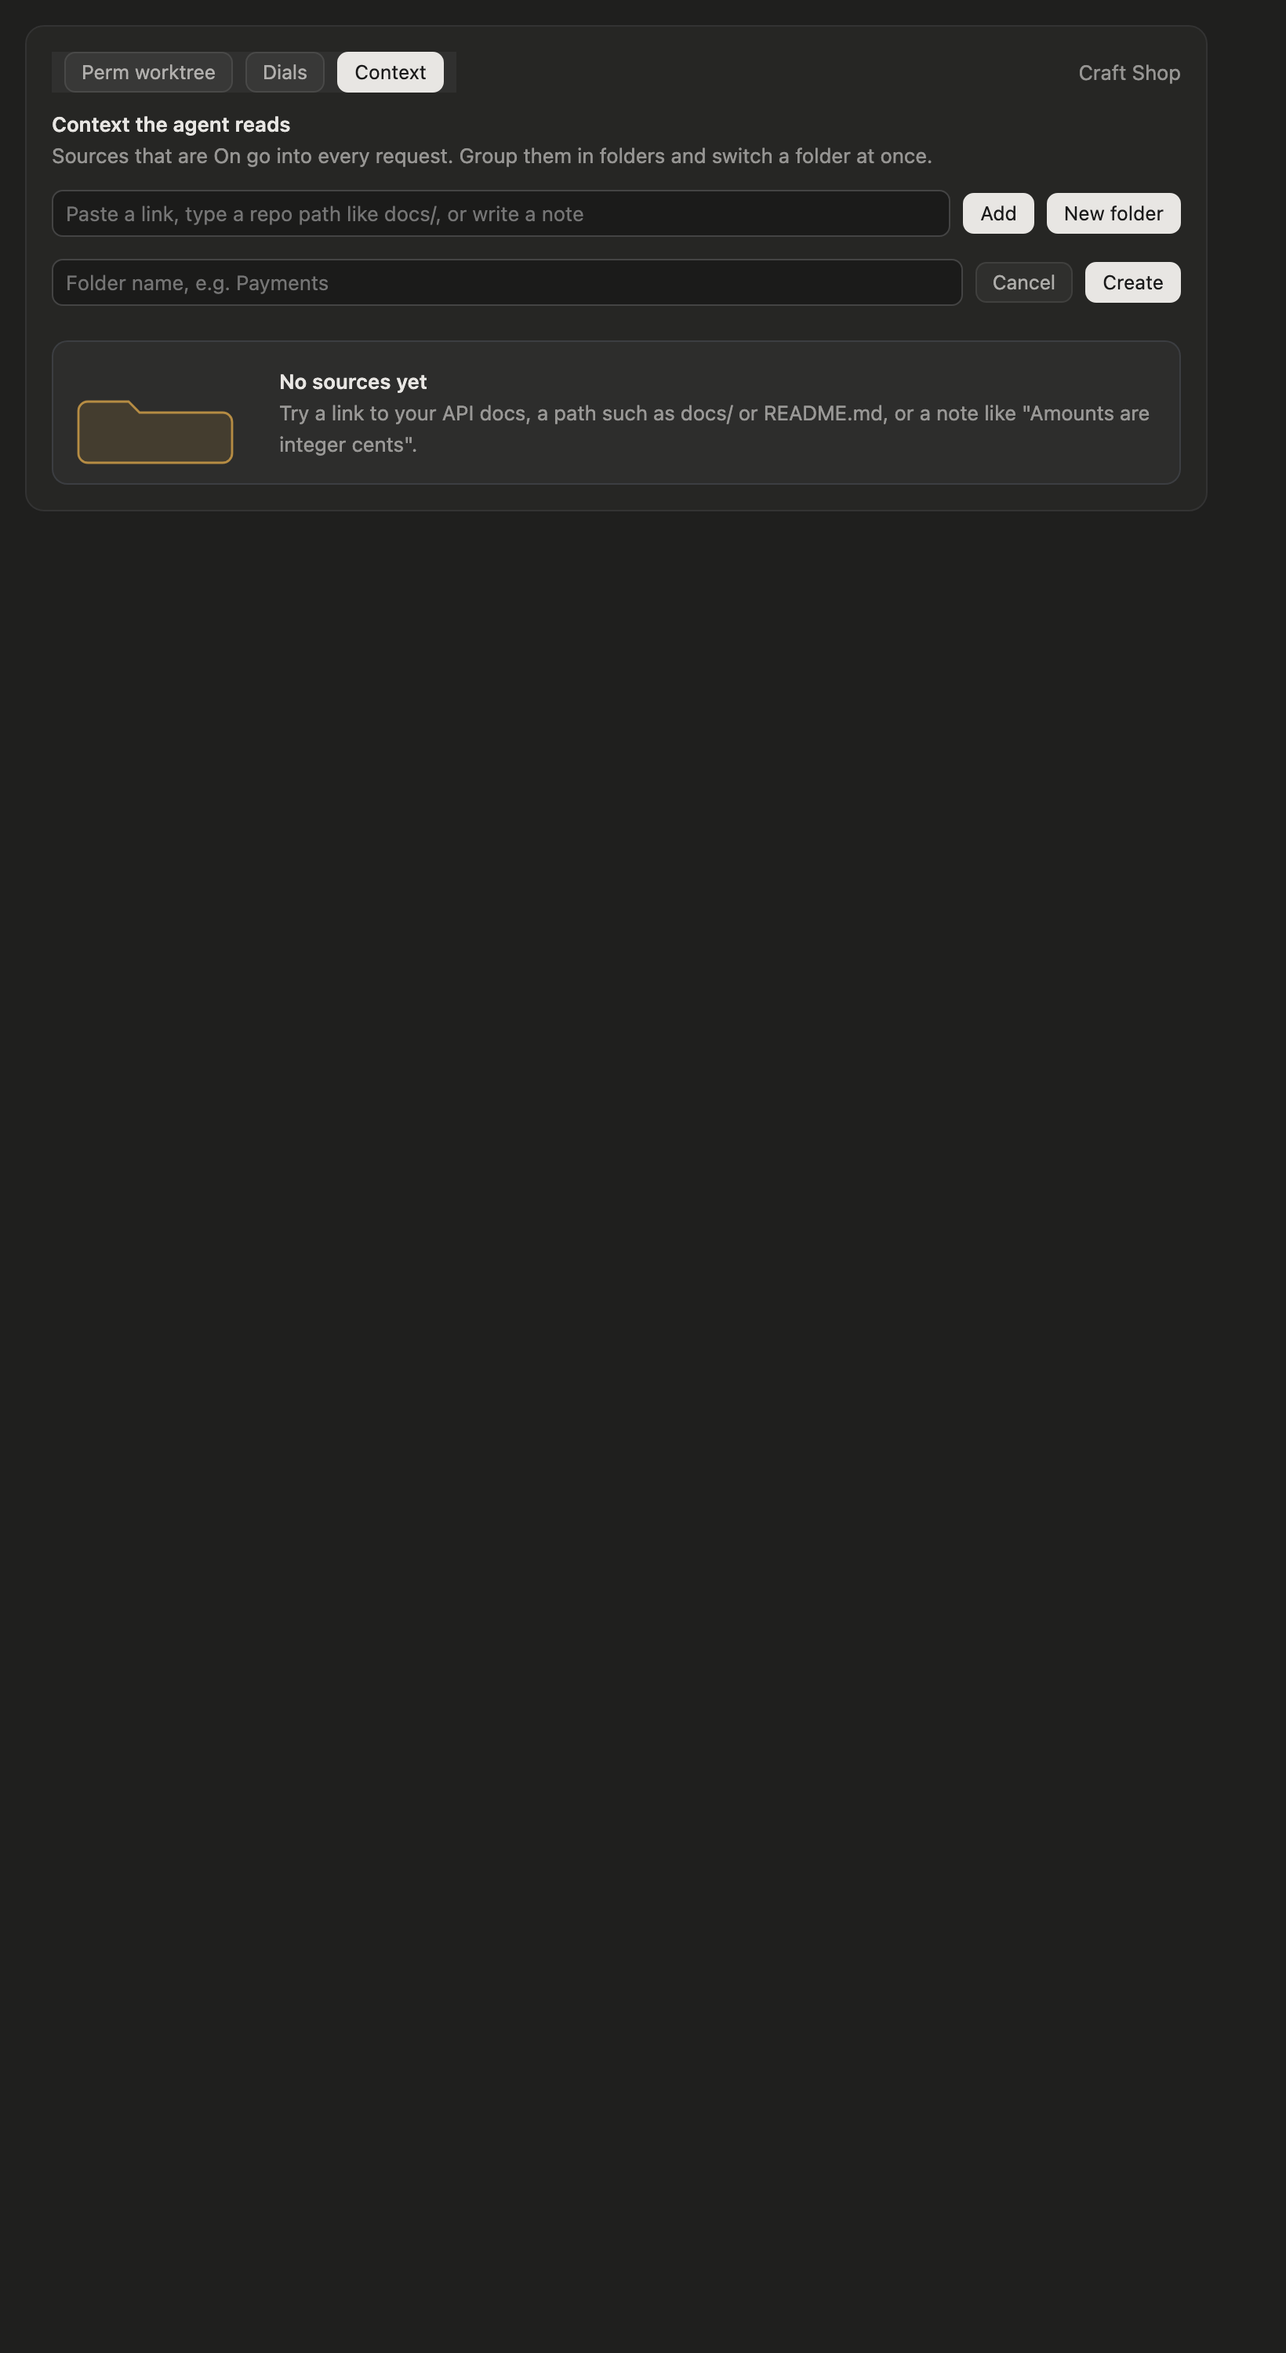
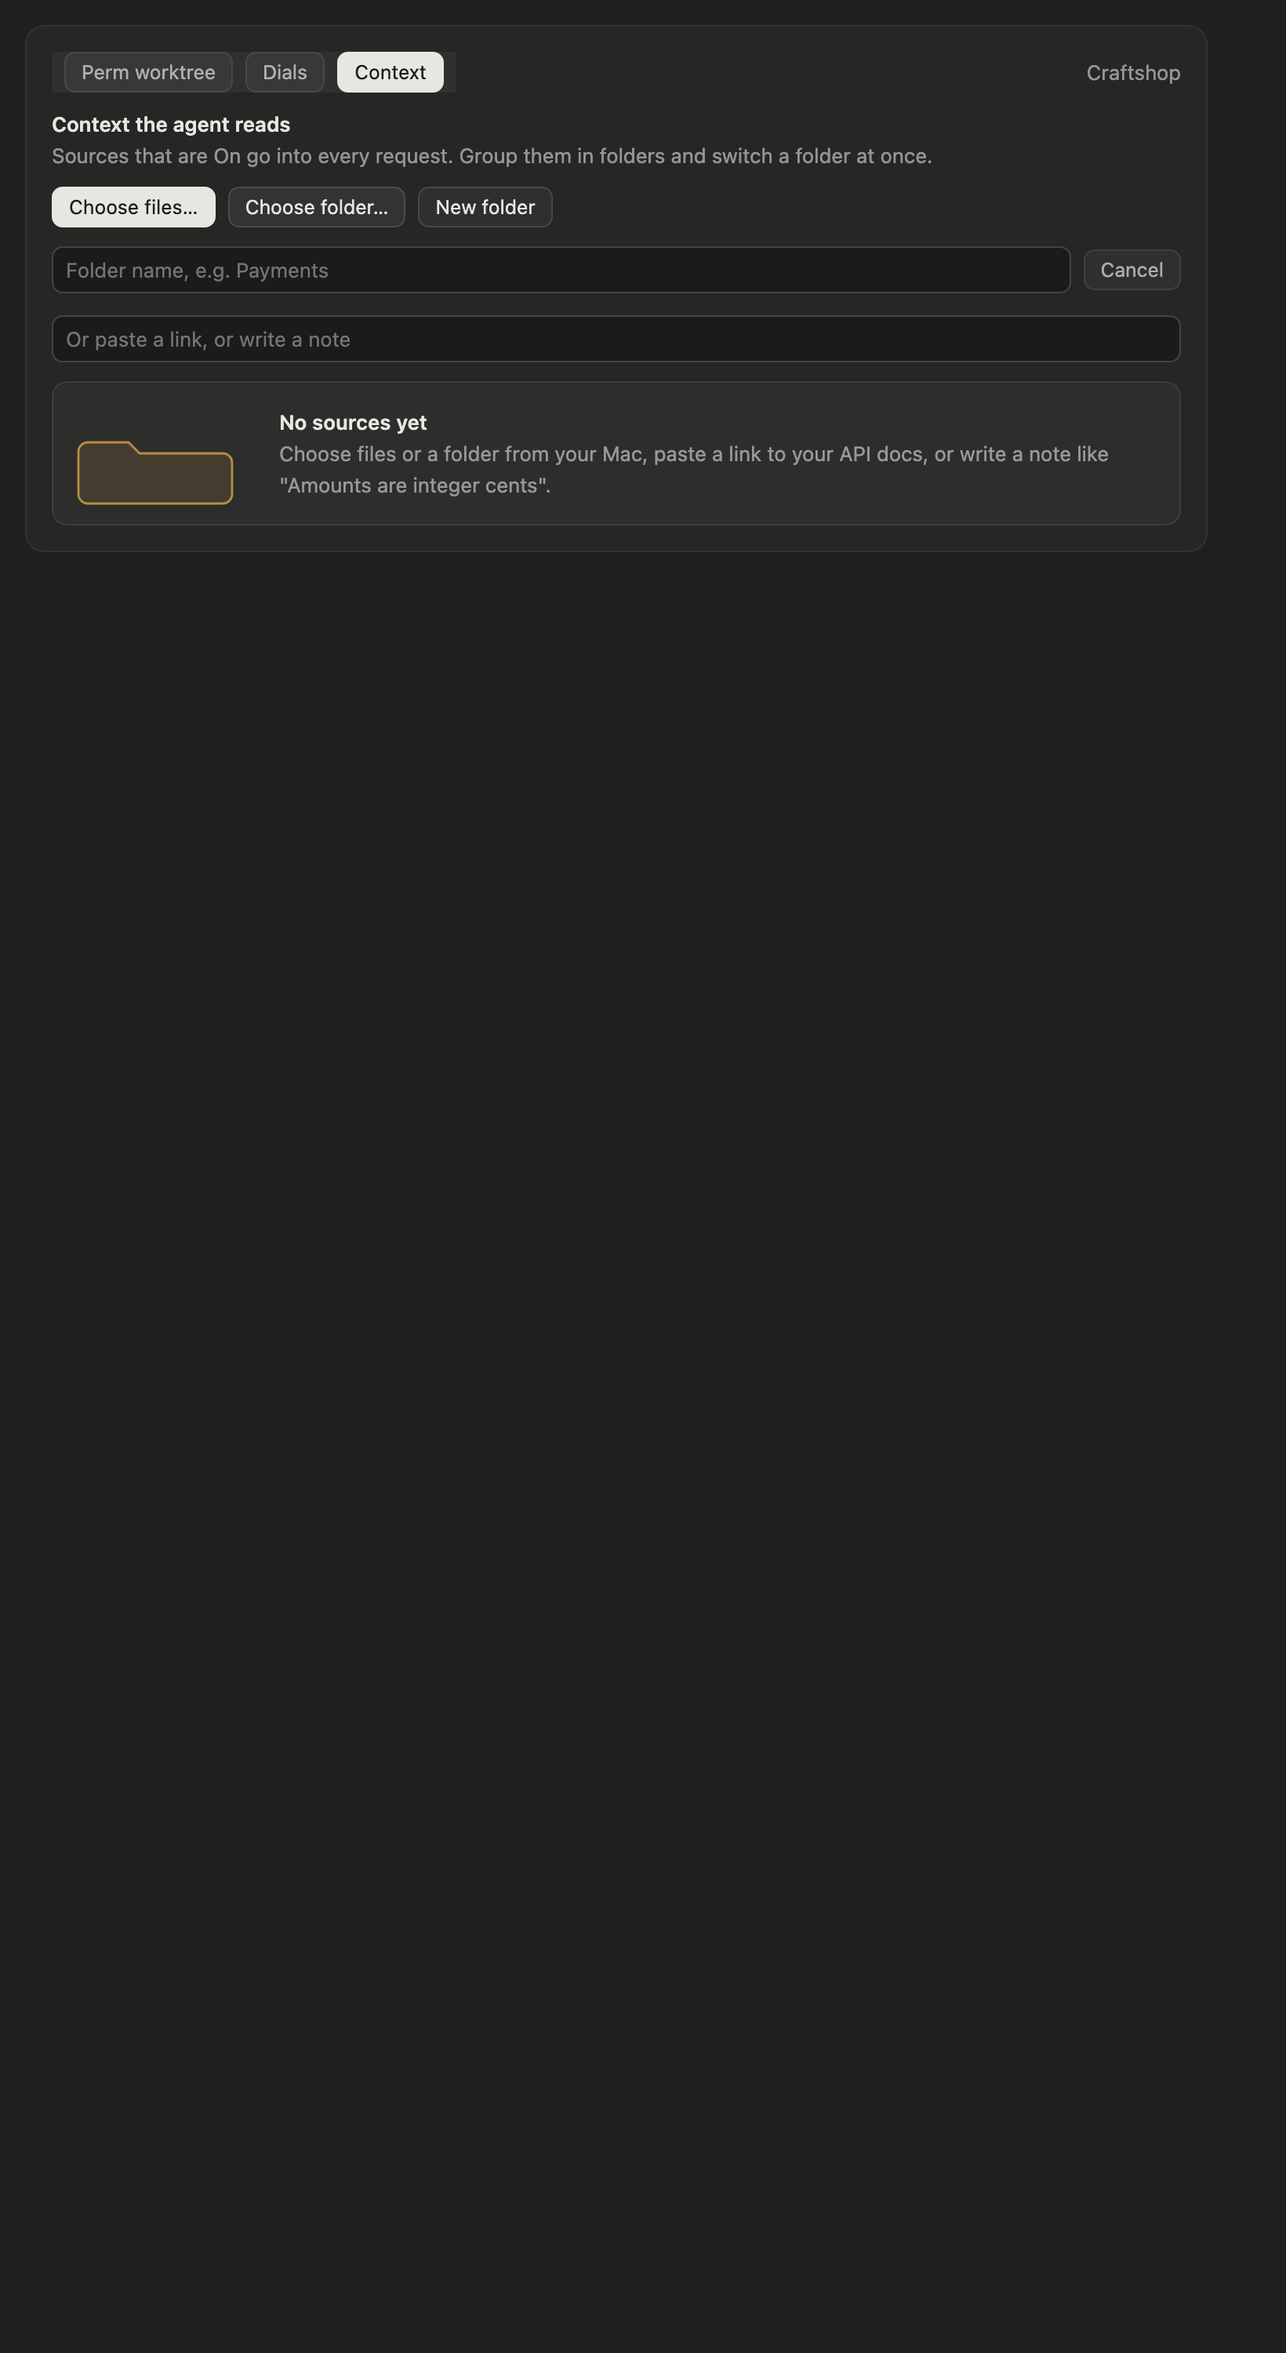
Context: choose files and folders with the macOS dialog
Choose files… and Choose folder… open the native file dialog through
osascript, so sources come from a pick rather than a typed path. Files
may sit outside the repository: those keep their absolute path, the
rest a path relative to the checkout. A picked folder imports its text
files as a Craftshop folder. The field below now takes links and
notes, and the duplicate Add button is gone, since the desktop draws
the field's own.

diff --git a/hooks/context.tsx b/hooks/context.tsx
@@ -193,13 +193,14 @@ async function readText($: $, path: string): Promise<string> {
   return typeof text === 'string' ? text.slice(0, CHAR_CAP) : ''
 }
 
-// The text files under a directory, breadth first, at most IMPORT_CAP.
-async function textFiles($: $, top: string, relative: string): Promise<string[]> {
+// The text files under a directory, breadth first, at most IMPORT_CAP, as
+// absolute paths.
+async function textFiles($: $, directory: string): Promise<string[]> {
   const found: string[] = []
-  const queue = [relative]
+  const queue = [directory]
   while (queue.length > 0 && found.length < IMPORT_CAP) {
     const dir = queue.shift()!
-    const entries = await $.fs.list(`${top}/${dir}`)
+    const entries = await $.fs.list(dir)
     for (const entry of [...entries].sort((a, b) => a.name.localeCompare(b.name))) {
       if (entry.name.startsWith('.')) continue
       const path = `${dir}/${entry.name}`
@@ -214,7 +215,7 @@ async function textFiles($: $, top: string, relative: string): Promise<string[]>
 // directory becomes a folder of its text files), anything else is a note.
 async function addFromInput($: $, raw: string): Promise<void> {
   const text = raw.trim()
-  if (text === '') return say($, 'Paste a link, type a path in the repository, or write a note.')
+  if (text === '') return say($, 'Paste a link or write a note, or choose files.')
   if (/^https?:\/\/\S+$/.test(text)) {
     await say($, `Fetching ${text}`)
     const page = await fetchLink($, text)
@@ -227,7 +228,7 @@ async function addFromInput($: $, raw: string): Promise<void> {
     const path = text.replace(/^\.\//, '').replace(/\/+$/, '')
     const top = await $.session.root()
     const stat = await $.fs.stat(`${top}/${path}`).catch(() => undefined)
-    if (stat?.kind === 'dir') return importDirectory($, top, path)
+    if (stat?.kind === 'dir') return importDirectory($, `${top}/${path}`, path)
     if (stat?.kind === 'file') {
       const body = await readText($, `${top}/${path}`).catch(() => null)
       if (body === null) return say($, `Could not read ${path}.`)
@@ -241,13 +242,63 @@ async function addFromInput($: $, raw: string): Promise<void> {
   return clearInput($, 'Added a note. Open it to rename it or add more.')
 }
 
+// The macOS file dialog, run through osascript on the machine Claude Code
+// runs on: the picked paths, [] when the person cancels, null when there is
+// no dialog to show (not macOS, or osascript failed).
+async function pickPaths($: $, kind: 'file' | 'folder'): Promise<string[] | null> {
+  const top = (await $.session.root()).replace(/"/g, '')
+  const chooser =
+    kind === 'file'
+      ? `choose file with prompt "Add files to Craftshop context" default location (POSIX file "${top}") with multiple selections allowed`
+      : `choose folder with prompt "Add folders to Craftshop context" default location (POSIX file "${top}") with multiple selections allowed`
+  const ran = await $.process
+    .run(['osascript', '-e', 'activate', '-e', `set picked to ${chooser}`, '-e', 'set out to ""', '-e', 'repeat with one in picked', '-e', 'set out to out & POSIX path of one & linefeed', '-e', 'end repeat', '-e', 'return out'], { timeoutMs: 600_000 })
+    .catch(() => null)
+  if (ran === null) return null
+  if (ran.exitCode !== 0) return /-128/.test(ran.stderr) ? [] : null
+  return ran.stdout
+    .split('\n')
+    .map(line => line.trim().replace(/\/$/, ''))
+    .filter(line => line !== '')
+}
+
+// A path as a source keeps it: relative to the checkout when inside it.
+function relativePath(top: string, path: string): string {
+  return path.startsWith(`${top}/`) ? path.slice(top.length + 1) : path
+}
+
+async function choose($: $, kind: 'file' | 'folder'): Promise<void> {
+  await say($, kind === 'file' ? 'Choosing files…' : 'Choosing a folder…')
+  const picked = await pickPaths($, kind)
+  if (picked === null) return say($, 'Could not open the file dialog here. Type a path in the field instead.')
+  if (picked.length === 0) return say($, '')
+  const top = await $.session.root()
+  const added: string[] = []
+  for (const path of picked) {
+    if (kind === 'folder') {
+      await importDirectory($, path, relativePath(top, path))
+      added.push(relativePath(top, path))
+      continue
+    }
+    const body = await readText($, path).catch(() => null)
+    if (body === null || body.includes('\u0000')) {
+      await say($, `Skipped ${path.split('/').pop()}: only text files can be sources.`)
+      continue
+    }
+    await addSource($, { kind: 'file', title: path.split('/').pop() ?? path, text: body, url: null, path: relativePath(top, path) })
+    added.push(path.split('/').pop() ?? path)
+  }
+  if (kind === 'file' && added.length > 0) await say($, `Added ${added.join(', ')}`)
+}
+
 async function clearInput($: $, status: string): Promise<void> {
   await update($, contextDraft, now => ({ ...now, input: '' }))
   await say($, status)
 }
 
-async function importDirectory($: $, top: string, path: string): Promise<void> {
-  const files = await textFiles($, top, path)
+async function importDirectory($: $, directory: string, path: string): Promise<void> {
+  const top = await $.session.root()
+  const files = await textFiles($, directory)
   if (files.length === 0) return say($, `No text files under ${path}.`)
   const folder: Folder = { id: await newId($), name: path.split('/').pop() || path }
   const added: Source[] = []
@@ -256,9 +307,9 @@ async function importDirectory($: $, top: string, path: string): Promise<void> {
       id: await newId($),
       kind: 'file',
       title: file.split('/').pop() ?? file,
-      text: await readText($, `${top}/${file}`),
+      text: await readText($, file),
       url: null,
-      path: file,
+      path: relativePath(top, file),
       mode: 'guidance',
       folderId: folder.id,
     })
@@ -289,7 +340,8 @@ async function refresh($: $, source: Source): Promise<void> {
     if (typeof page === 'string') return say($, page)
     text = page.text
   } else if (source.kind === 'file' && source.path !== null) {
-    text = await readText($, `${await $.session.root()}/${source.path}`).catch(() => null)
+    const file = source.path.startsWith('/') ? source.path : `${await $.session.root()}/${source.path}`
+    text = await readText($, file).catch(() => null)
   }
   if (text === null) return say($, `Could not refresh ${source.title}.`)
   await saveSources($, list => list.map(one => (one.id === source.id ? { ...one, text: text! } : one)))
@@ -531,40 +583,40 @@ export function registerContext(on: On): void {
     }
 
     const targetOptions = [{ value: '', label: 'No folder' }, ...groups.map(one => ({ value: one.id, label: one.name }))]
+    const isWarning = /^(Could|That link|No text|Skipped)/.test(status)
     const adder = (
       <Box flexDirection="column" gap={1}>
-        <Box gap={1} alignItems="center">
-          {Input !== undefined && (
-            <Box flexGrow={1}>
-              <Input
-                key="add-input"
-                placeholder="Paste a link, type a repo path like docs/, or write a note"
-                value={draft.input}
-                submitLabel="add"
-                autoFocus={list.length === 0 ? true : undefined}
-                onInput={value => void update($, contextDraft, now => ({ ...now, input: value }))}
-                onSubmit={value => void addFromInput($, value)}
-              />
-            </Box>
-          )}
+        <Box justifyContent="space-between" alignItems="center" gap={1} flexWrap="wrap">
+          <Box gap={1} alignItems="center" flexWrap="wrap">
+            <Button key="pick-files" label="Choose files…" variant="primary" onPress={() => void choose($, 'file')} />
+            <Button key="pick-folder" label="Choose folder…" onPress={() => void choose($, 'folder')} />
+            <Button key="folder-new" label="New folder" variant={view.isNamingFolder ? 'secondary' : undefined} dimColor={!view.isNamingFolder} onPress={go({ isNamingFolder: !view.isNamingFolder })} />
+          </Box>
           {Select !== undefined && groups.length > 0 && (
-            <Select key="add-target" label="to " options={targetOptions} value={view.target ?? ''} onSelect={value => void setView($, { target: value === '' ? null : value })} />
+            <Select key="add-target" label="Into " options={targetOptions} value={view.target ?? ''} onSelect={value => void setView($, { target: value === '' ? null : value })} />
           )}
-          <Button key="add-go" label="Add" variant="primary" onPress={() => void read($, contextDraft).then(now => addFromInput($, now.input))} />
-          <Button key="folder-new" label="New folder" variant={view.isNamingFolder ? 'primary' : undefined} dimColor={!view.isNamingFolder} onPress={go({ isNamingFolder: !view.isNamingFolder })} />
         </Box>
         {view.isNamingFolder && Input !== undefined && (
           <Box gap={1} alignItems="center">
-            <Box flexGrow={1}>
-              <Input key="folder-name" placeholder="Folder name, e.g. Payments" value={draft.name} submitLabel="create" autoFocus onInput={value => void update($, contextDraft, now => ({ ...now, name: value }))} onSubmit={value => void addFolder($, value)} />
-            </Box>
+            <Input key="folder-name" placeholder="Folder name, e.g. Payments" value={draft.name} submitLabel="create" autoFocus onInput={value => void update($, contextDraft, now => ({ ...now, name: value }))} onSubmit={value => void addFolder($, value)} />
             <Button key="folder-cancel" label="Cancel" dimColor onPress={go({ isNamingFolder: false })} />
-            <Button key="folder-create" label="Create" variant="primary" onPress={() => void read($, contextDraft).then(now => addFolder($, now.name))} />
           </Box>
         )}
-        <Text color={status.startsWith('Could') || status.startsWith('That link') || status.startsWith('No text') ? 'warning' : undefined} dimColor={!(status.startsWith('Could') || status.startsWith('That link'))}>
-          {status !== '' ? status : targetName !== null ? `New sources go into ${targetName}.` : list.length === 0 ? '' : 'New sources start On.'}
-        </Text>
+        {Input !== undefined && (
+          <Input
+            key="add-input"
+            placeholder="Or paste a link, or write a note"
+            value={draft.input}
+            submitLabel="add"
+            onInput={value => void update($, contextDraft, now => ({ ...now, input: value }))}
+            onSubmit={value => void addFromInput($, value)}
+          />
+        )}
+        {(status !== '' || targetName !== null) && (
+          <Text color={isWarning ? 'warning' : undefined} dimColor={!isWarning}>
+            {status !== '' ? status : `New sources go into ${targetName}.`}
+          </Text>
+        )}
       </Box>
     )
 
@@ -611,7 +663,7 @@ export function registerContext(on: On): void {
                 {svg(ui, folderArt(0, 0, 120, 70), 'An empty folder', 120, 70)}
                 <Box flexDirection="column" flexShrink={1}>
                   <Text bold>No sources yet</Text>
-                  <Text dimColor>Try a link to your API docs, a path such as docs/ or README.md, or a note like "Amounts are integer cents".</Text>
+                  <Text dimColor>Choose files or a folder from your Mac, paste a link to your API docs, or write a note like "Amounts are integer cents".</Text>
                 </Box>
               </Box>,
             ],

diff --git a/tests/world.ts b/tests/world.ts
@@ -38,13 +38,15 @@ export function world(on: On, { isRepo = true } = {}): World {
   })
   on('ui.panes', () => ({ value: panes.map(id => ({ id, title: id, isShown: true, isFocused: false, isPlaced: true })) }))
   on('fs.exists', () => ({ value: false }))
-  on('fs.stat', ($, e) => ({ value: { kind: 'dir', size: 0, mtimeMs: 0, isLink: false, realPath: e.path } }))
+  on('fs.stat', ($, e) => ({ value: { kind: /\.\w+$/.test(e.path) ? 'file' : 'dir', size: 0, mtimeMs: 0, isLink: false, realPath: e.path } }))
   on('http.fetch', ($, e) => {
     fetched.push(e.url)
     return { value: { status: 200, ok: true, headers: { 'content-type': 'application/json' }, text: '[{"id":1}]' } }
   })
   on('process.run', ($, e) => {
     const command = e.argv.join(' ')
+    // The macOS file dialog: what picked files come back as.
+    if (e.argv[0] === 'osascript') return ran(command.includes('choose folder') ? `${REPO}/docs/\n` : `${REPO}/docs/api.md\n/Users/me/notes/style.md\n`)
     if (command === 'git rev-parse --show-toplevel') return ran(`${REPO}\n`)
     if (command === 'git symbolic-ref --short refs/remotes/origin/HEAD') return ran('origin/main\n')
     if (command === 'git fetch -q origin main') return ran()

diff --git a/tests/context.test.ts b/tests/context.test.ts
@@ -121,3 +121,22 @@ test('a link is fetched, and a repository directory imports as a folder of file 
   expect(await ui.find({ text: /logo\.png/ })).toBeUndefined()
   expect(await contextSection($)).toContain('### docs › api.md (docs/api.md)')
 })
+
+test('Choose files and Choose folder add what the macOS dialog picks', async ($, on) => {
+  world(on, { isRepo: false })
+  on('fs.list', () => ({ value: [{ name: 'adr.md', kind: 'file', size: 10, mtimeMs: 0, isLink: false }] }))
+  on('fs.read', ($, e) => ({ value: `contents of ${e.path}` }))
+  await startSession($)
+  const ui = await mountPane($, 'desktop')
+  await ui.press({ key: 'tab-context' })
+
+  await ui.press({ key: 'pick-files' })
+  expect(await ui.find({ text: /Added api\.md, style\.md/ })).toBeDefined()
+  const section = await contextSection($)
+  expect(section).toContain('### api.md (docs/api.md)')
+  expect(section).toContain('### style.md (/Users/me/notes/style.md)')
+
+  await ui.press({ key: 'pick-folder' })
+  expect(await ui.find({ text: /1 source · 1 on/ })).toBeDefined()
+  expect(await contextSection($)).toContain('### docs › adr.md (docs/adr.md)')
+})

diff --git a/README.md b/README.md
@@ -68,12 +68,12 @@ The brief is added to the system prompt as a "Working style" section. Claude Cod
 
 The Context tab holds the sources the agent reads. It is kept per repository.
 
-- **Add.** One field takes all three kinds:
-  - A link (`https://…`) is fetched as text, 12,000 characters at most.
-  - A repository path is read. A file adds one source, and a directory (`docs/`) adds a folder of its text files, up to 40.
-  - Anything else becomes a note.
+- **Add.**
+  - **Choose files…** opens the macOS file dialog. Pick one or more text files, in the repository or anywhere on your Mac.
+  - **Choose folder…** imports a folder's text files (up to 40) as a Craftshop folder.
+  - The field below takes the rest. A link (`https://…`) is fetched as text, 12,000 characters at most. A repository path is read too. Anything else becomes a note.
 
-  **to** picks the folder new sources go into.
+  **Into** picks the folder new sources go into. The dialogs run through `osascript`, so they need Claude Code running on a Mac. Elsewhere, type a path in the field.
 - **On or Off.** Each source has a switch. A source that is On also has a **Strict** pill. Strict sources are binding ground truth, and the agent must say so if the code disagrees. The others guide the agent.
 - **Folders.** **New folder** makes a group. A folder's switch turns all its sources on or off at once, and reads **Some on** when they differ. **Add here** sends new sources into the folder. You can also rename a folder, or delete it with or without its sources.
 - **Details.** Click a source's title to see its text, rename it, move it to another folder, edit a note, refresh a link or file, or delete it.
